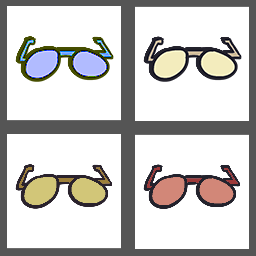
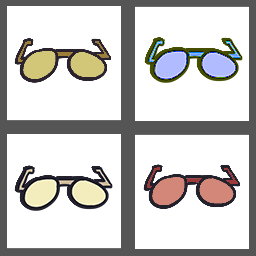
new images update

Changed region(s): [[0.0312, 0.125, 0.4688, 0.3438], [0.0312, 0.625, 0.4375, 0.8438], [0.5625, 0.125, 0.9688, 0.3438]]

diff --git a/Color Era/Scripts/Game.js b/Color Era/Scripts/Game.js
@@ -54,7 +54,8 @@ theGame.Game.prototype =
         this.gameBackground.anchor.set(0.5,0.5);
         
         //Draw character
-        this.person = this.add.sprite(this.world.width*0.83, this.world.height*0.6, 'Person');
+        //this.person = this.add.sprite(this.world.width*0.83, this.world.height*0.6, 'Person');
+        this.person = this.add.sprite(this.world.width*0.83, this.world.height*0.59, 'CharacterSprite');
         this.person.anchor.set(0.5,0.5);
         
         //the clothes icons
@@ -316,28 +317,28 @@ theGame.Game.prototype =
             switch(sprite.frame)
             {
                 case 0:
-                    this.drawClothes('70Clothes');
+                    this.drawClothes('70Shirt');
                     break;
                 case 1:
-                    this.drawClothes('80Clothes');
+                    this.drawClothes('80Shirt');
                     break;
                 case 2:
-                    //this.drawClothes('90Clothes');
+                    this.drawClothes('90Shirt');
                     break;
                 case 3:
-                    //this.drawClothes('2000Clothes');
+                    this.drawClothes('2000Shirt');
                     break;
             }
         }
-//        if(this.specsOpened == true)
-//        {
-//            switch(sprite.frame)
-//            {
-//                case 0:
-//                    this.drawSpecs('70Clothes');
-//                    break;
+        if(this.specsOpened == true)
+        {
+            switch(sprite.frame)
+            {
+                case 0:
+                    this.drawSpecs('70Specs');
+                    break;
 //                case 1:
-//                    this.drawSpecs('70Pants');
+//                    this.drawSpecs('80Specs');
 //                    break;
 //                case 2:
 //                    this.drawSpecs('70Glasses');
@@ -345,18 +346,18 @@ theGame.Game.prototype =
 //                case 3:
 //                    this.drawSpecs('70Shose');
 //                    break;
-//            }
-//        }
-//        
-//        if(this.shoseOpened == true)
-//        {
-//            switch(sprite.frame)
-//            {
-//                case 0:
-//                    this.drawShose('70Clothes');
-//                    break;
-//                case 1:
-//                    this.drawShose('70Pants');
+            }
+        }
+        
+        if(this.shoseOpened == true)
+        {
+            switch(sprite.frame)
+            {
+                case 0:
+                    this.drawShose('70Shose');
+                    break;
+                case 1:
+//                    this.drawShose('80Shose');
 //                    break;
 //                case 2:
 //                    this.drawShose('70Glasses');
@@ -364,8 +365,8 @@ theGame.Game.prototype =
 //                case 3:
 //                    this.drawShose('70Shose');
 //                    break;
-//            }
-//        }
+            }
+        }
     },
     
     checkEraImage: function(sprite)
@@ -377,12 +378,12 @@ theGame.Game.prototype =
                 if(this.seventysTheme == true)
                 {
                     this.speach.text = "you are right";
+                    this.person.frame = 0;
                 }
                 else
                 {
                     this.speach.text = "try another";
-                    this.person = this.add.sprite(this.world.width*0.83, this.world.height*0.6, 'PersonSad');
-                    this.person.anchor.set(0.5,0.5);
+                    this.person.frame = 1;
                 }
                 
                 console.log( "1970s " + sprite.frame);
@@ -390,12 +391,14 @@ theGame.Game.prototype =
             else if(sprite.frame == this.eightysArray[i])
             {
                 if(this.eightysTheme == true)
+                {
                     this.speach.text = "you are right";
+                    this.person.frame = 0;
+                }
                 else
                     {
                     this.speach.text = "try another";
-                    this.person = this.add.sprite(this.world.width*0.83, this.world.height*0.6, 'PersonSad');
-                    this.person.anchor.set(0.5,0.5);
+                        this.person.frame = 1;
                 }
                 
                 
@@ -404,12 +407,14 @@ theGame.Game.prototype =
             else if(sprite.frame == this.ninetysArray[i])
             {
                   if(this.ninetysTheme == true)
+                  {
                     this.speach.text = "you are right";
+                    this.person.frame = 0;   
+                  }
                 else
                    {
                     this.speach.text = "try another";
-                    this.person = this.add.sprite(this.world.width*0.83, this.world.height*0.6, 'PersonSad');
-                    this.person.anchor.set(0.5,0.5);
+                       this.person.frame = 1;
                 }
                 
                 console.log( "1990s " + sprite.frame);
@@ -417,12 +422,14 @@ theGame.Game.prototype =
             else if(sprite.frame == this.twoThousandsArray[i])
             {
                  if(this.twoThousandsTheme == true)
+                 {
                     this.speach.text = "you are right";
+                    this.person.frame = 0;   
+                 }
                 else
                     {
                     this.speach.text = "try another";
-                    this.person = this.add.sprite(this.world.width*0.83, this.world.height*0.6, 'PersonSad');
-                    this.person.anchor.set(0.5,0.5);
+                        this.person.frame = 1;
                 }
                 
                 console.log( "2000s " + sprite.frame);

diff --git a/Color Era/Scripts/Preloader.js b/Color Era/Scripts/Preloader.js
@@ -31,18 +31,23 @@ theGame.Preloader.prototype =
         this.load.image('ToturialBackGround', 'Assets/images/tutorial.png');
         
         //Person & Clothes
-        this.load.image('Person', 'Assets/images/people.png');
-        this.load.image('PersonSad', 'Assets/images/sad_character.png');
+//        this.load.image('Person', 'Assets/images/people.png');
+//        this.load.image('PersonSad', 'Assets/images/sad_character.png');
+        this.load.spritesheet('CharacterSprite', 'Assets/images/characterSprite.png', 250, 533);
         
-        this.load.image('70Glasses', 'Assets/images/70s_specs.png');
-        this.load.image('70Clothes', 'Assets/images/70s_shirt.png');
+        this.load.image('70Specs', 'Assets/images/70s_specs.png');
+        this.load.image('70Shirt', 'Assets/images/70s_shirt.png');
         this.load.image('70Pants', 'Assets/images/70s_pants.png');
         this.load.image('70Shose', 'Assets/images/70s_shoes.png');
         
-        this.load.image('80Glasses', 'Assets/images/80glasses.png');
-        this.load.image('80Clothes', 'Assets/images/80clothes.png');
-        this.load.image('80Pants', 'Assets/images/80pants.png');
-        this.load.image('80Shose', 'Assets/images/80shose.png');
+        //this.load.image('80Specs', 'Assets/images/80s_specs.png');
+        this.load.image('80Shirt', 'Assets/images/80s_shirt.png');
+        this.load.image('80Pants', 'Assets/images/80s_pants.png');
+        //this.load.image('80Shose', 'Assets/images/80s_shoes.png');
+        
+        this.load.image('90Shirt', 'Assets/images/90s_shirt.png');
+        
+        this.load.image('2000Shirt', 'Assets/images/2000s_shirt.png');
         
         //UI button
         this.load.spritesheet('StartGame', 'Assets/images/Play_button.png', 196, 132);
